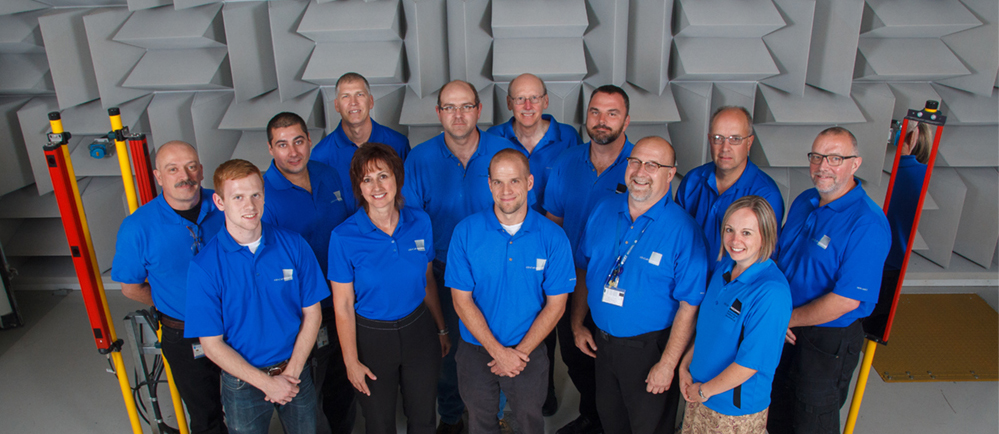
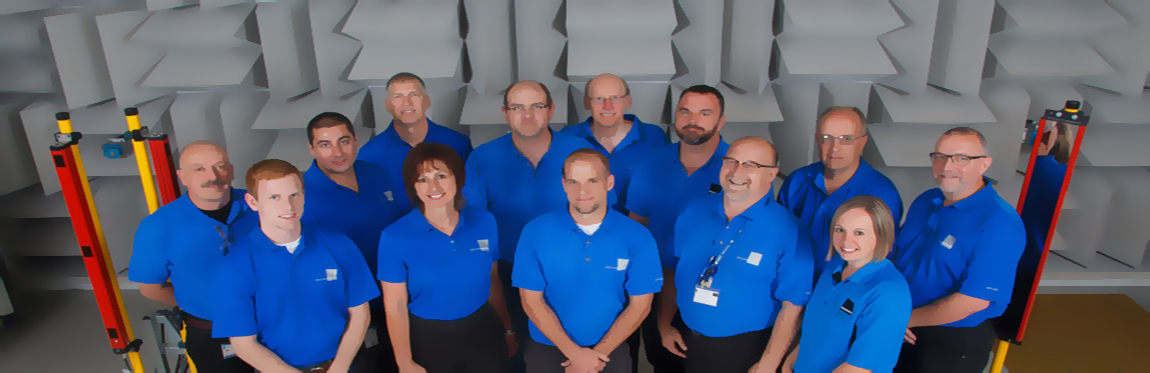
fix images

diff --git a/public/index.html b/public/index.html
@@ -1,36 +1,43 @@
 <!DOCTYPE html>
 <html lang="en">
-  <head>
-    <meta charset="utf-8">
-    <meta name="viewport" content="width=device-width, initial-scale=1, shrink-to-fit=no">
-    <meta name="theme-color" content="#000000">
-    <!--
+
+<head>
+  <meta charset="utf-8">
+  <meta name="viewport" content="width=device-width, initial-scale=1, shrink-to-fit=no">
+  <meta name="theme-color" content="#000000">
+  <!--
       manifest.json provides metadata used when your web app is added to the
       homescreen on Android. See https://developers.google.com/web/fundamentals/engage-and-retain/web-app-manifest/
     -->
-    <link rel="manifest" href="%PUBLIC_URL%/manifest.json">
-    <link rel="shortcut icon" href="%PUBLIC_URL%/favicon.ico">
+  <link rel="manifest" href="%PUBLIC_URL%/manifest.json">
+  <link rel="shortcut icon" href="%PUBLIC_URL%/bigMoveIcon.ico">
 
-    <!-- bootstrap -->
-    <link rel="stylesheet" href="https://stackpath.bootstrapcdn.com/bootstrap/4.1.3/css/bootstrap.min.css" integrity="sha384-MCw98/SFnGE8fJT3GXwEOngsV7Zt27NXFoaoApmYm81iuXoPkFOJwJ8ERdknLPMO" crossorigin="anonymous">
-    <!-- google font -->
-    <link href="https://fonts.googleapis.com/css?family=Lalezar" rel="stylesheet">
+  <!-- bootstrap -->
+  <link rel="stylesheet" href="https://stackpath.bootstrapcdn.com/bootstrap/4.1.3/css/bootstrap.min.css" integrity="sha384-MCw98/SFnGE8fJT3GXwEOngsV7Zt27NXFoaoApmYm81iuXoPkFOJwJ8ERdknLPMO"
+    crossorigin="anonymous">
+  <!-- google font -->
+  <link href="https://fonts.googleapis.com/css?family=Lalezar" rel="stylesheet">
 
-    <title>Big Move</title>
-  </head>
-  <body>
-    <noscript>
-      You need to enable JavaScript to run this app.
-    </noscript>
+  <title>Big Move</title>
+</head>
 
-    <!-- bootstrap -->
-    <script src="https://code.jquery.com/jquery-3.3.1.slim.min.js" integrity="sha384-q8i/X+965DzO0rT7abK41JStQIAqVgRVzpbzo5smXKp4YfRvH+8abtTE1Pi6jizo" crossorigin="anonymous"></script>
-    <script src="https://cdnjs.cloudflare.com/ajax/libs/popper.js/1.14.3/umd/popper.min.js" integrity="sha384-ZMP7rVo3mIykV+2+9J3UJ46jBk0WLaUAdn689aCwoqbBJiSnjAK/l8WvCWPIPm49" crossorigin="anonymous"></script>
-    <script src="https://stackpath.bootstrapcdn.com/bootstrap/4.1.3/js/bootstrap.min.js" integrity="sha384-ChfqqxuZUCnJSK3+MXmPNIyE6ZbWh2IMqE241rYiqJxyMiZ6OW/JmZQ5stwEULTy" crossorigin="anonymous"></script>
-    
-    
-    <div id="root"></div>
-   
-    
-  </body>
+<body>
+  <noscript>
+    You need to enable JavaScript to run this app.
+  </noscript>
+
+  <!-- bootstrap -->
+  <script src="https://code.jquery.com/jquery-3.3.1.slim.min.js" integrity="sha384-q8i/X+965DzO0rT7abK41JStQIAqVgRVzpbzo5smXKp4YfRvH+8abtTE1Pi6jizo"
+    crossorigin="anonymous"></script>
+  <script src="https://cdnjs.cloudflare.com/ajax/libs/popper.js/1.14.3/umd/popper.min.js" integrity="sha384-ZMP7rVo3mIykV+2+9J3UJ46jBk0WLaUAdn689aCwoqbBJiSnjAK/l8WvCWPIPm49"
+    crossorigin="anonymous"></script>
+  <script src="https://stackpath.bootstrapcdn.com/bootstrap/4.1.3/js/bootstrap.min.js" integrity="sha384-ChfqqxuZUCnJSK3+MXmPNIyE6ZbWh2IMqE241rYiqJxyMiZ6OW/JmZQ5stwEULTy"
+    crossorigin="anonymous"></script>
+
+
+  <div id="root"></div>
+
+
+</body>
+
 </html>

diff --git a/src/App.css b/src/App.css
@@ -7,7 +7,7 @@ body {
 }
 
 .move-nav-toggler {
-  color: #111 !important;
+  color: #222 !important;
   margin-bottom: 0 !important;
 }
 
@@ -17,25 +17,32 @@ body {
 }
 
 .move-head-link {
-  color: #111 !important;
+  color: #222 !important;
   font-size: 9pt;
   font-weight: bold;
 }
 
 .move-img-service {
-  background-image: url('./img/truck.jpg');
-  background-size: cover;
-  background-blend-mode: darken;
-  width: 100%;
-  height: 300px;
+  width: auto;
 }
 
 .move-img-about {
-  background-image: url('./img/about.jpeg');
-  background-size: cover;
-  background-blend-mode: darken;
-  width: 100%;
-  height: 300px;
+  width: auto;
+}
+
+.move-main-img-box {
+  position: relative;
+}
+
+.img-title {
+  position: absolute;
+  color: #eee;
+  text-align: center;
+  left: 0;
+  right: 0;
+  top: 10%;
+  margin-top: 5%;
+  letter-spacing: 3px;
 }
 
 /* carusel imgs */
@@ -44,11 +51,7 @@ body {
   font-family: 'Franklin Gothic Medium', 'Arial Narrow', Arial, sans-serif;
   font-size: 22pt;
 }
-.move-txt-slide1s {
-  text-align: center;
-  font-family: 'Franklin Gothic Medium', 'Arial Narrow', Arial, sans-serif;
-  font-size: 16pt;
-}
+
 .move-txt-slide2 {
   text-align: left;
   font-family: 'Franklin Gothic Medium', 'Arial Narrow', Arial, sans-serif;
@@ -57,7 +60,7 @@ body {
 }
 .move-txt-slide3 {
   text-align: left;
-  font-family: Cambria, Cochin, Georgia, Times, 'Times New Roman', serif;
+  font-family: 'Franklin Gothic Medium', 'Arial Narrow', Arial, sans-serif;
   font-size: 30pt;
   font-style: italic;
 }
@@ -68,7 +71,7 @@ body {
 
 .move-font-lalezar-white {
   font-family: 'Lalezar', cursive;
-  color: #fff;
+  color: #eee;
 }
 
 .move-nav-item-top {
@@ -138,33 +141,33 @@ body {
 /* footer section */
 
 .move-footer-bkg {
-  background-color: #111;
-  color: #fff;
+  background-color: #222;
+  color: #eee;
   font-size: 9pt;
 }
 
 .move-footer-link {
-  color: #fff;
+  color: #eee;
   font-weight: bold;
 }
 
 .move-footer-link:hover {
-  color: #fff;
+  color: #eee;
 }
 
 .move-copyright {
-  color: #111;
+  color: #222;
   background-color: #d3e3ff;
 }
 
 .move-btn {
   background-color: #0069ac;
-  color: #fff;
+  color: #eee;
   border-color: #045588;
 }
 
 .move-btn:hover {
   background-color: #045588;
-  color: #fff;
+  color: #eee;
   border-color: #045588;
 }

diff --git a/src/components/About.js b/src/components/About.js
@@ -1,5 +1,5 @@
 import React, { Component } from 'react';
-import aboutus from '../img/about.jpg';
+import aboutus from '../img/about.jpeg';
 import img1 from '../img/people1.jpg';
 import img2 from '../img/people1.jpg';
 import img3 from '../img/people1.jpg';
@@ -8,13 +8,14 @@ class About extends Component {
   render() {
     return (
       <div className="container">
-        <div className="move-img-about px-3 py-3 pt-md-5 pb-md-4 mx-auto text-center img-fluid">
+        <img className="img-fluid" src={aboutus} />
+        <div className="img-title">
           <h6 className="display-4 move-font-lalezar-white">About Us</h6>
         </div>
 
         <h3 className="move-caps">
           <br />
-          We Care about People
+          Our Team
         </h3>
         <p>
           Lorem ipsum dolor sit amet, consectetur adipiscing elit, sed do
@@ -31,7 +32,7 @@ class About extends Component {
               <div className="move-card-item mb-4">
                 <img className="img-fluid" src={img1} />
                 <div className="move-item">
-                  <h5>Trust</h5>
+                  <h5>Customer Focus</h5>
                   <p className="card-text">
                     Lorem ipsum dolor sit amet, consectetur adipiscing elit, sed
                     do eiusmod tempor incididunt ut labore et dolore magna
@@ -59,7 +60,7 @@ class About extends Component {
               <div className="move-card-item mb-4">
                 <img className="img-fluid" src={img3} />
                 <div className="move-item">
-                  <h5>Customer Focus</h5>
+                  <h5>Trust</h5>
                   <p className="card-text">
                     Lorem ipsum dolor sit amet, consectetur adipiscing elit, sed
                     do eiusmod tempor incididunt ut labore et dolore magna

diff --git a/src/components/Service.js b/src/components/Service.js
@@ -1,5 +1,6 @@
 import React, { Component } from 'react';
 
+import serviceImg from '../img/truck.jpg';
 import img1 from '../img/img1.jpg';
 import img2 from '../img/img2.jpg';
 import img3 from '../img/img3.jpg';
@@ -8,9 +9,13 @@ class Service extends Component {
   render() {
     return (
       <div className="container">
-        <div className="move-img-service px-3 py-3 pt-md-5 pb-md-4 mx-auto text-center img-fluid">
-          <h6 className="display-4 move-font-lalezar-white">Services</h6>
+        <div className="move-main-img-box">
+          <img className="img-fluid" src={serviceImg} />
+          <div className="img-title">
+            <h6 className="display-4 move-font-lalezar-white">Services</h6>
+          </div>
         </div>
+
         <div className="move-flex">
           <div className="container left-menu">
             <p>&nbsp;</p>
